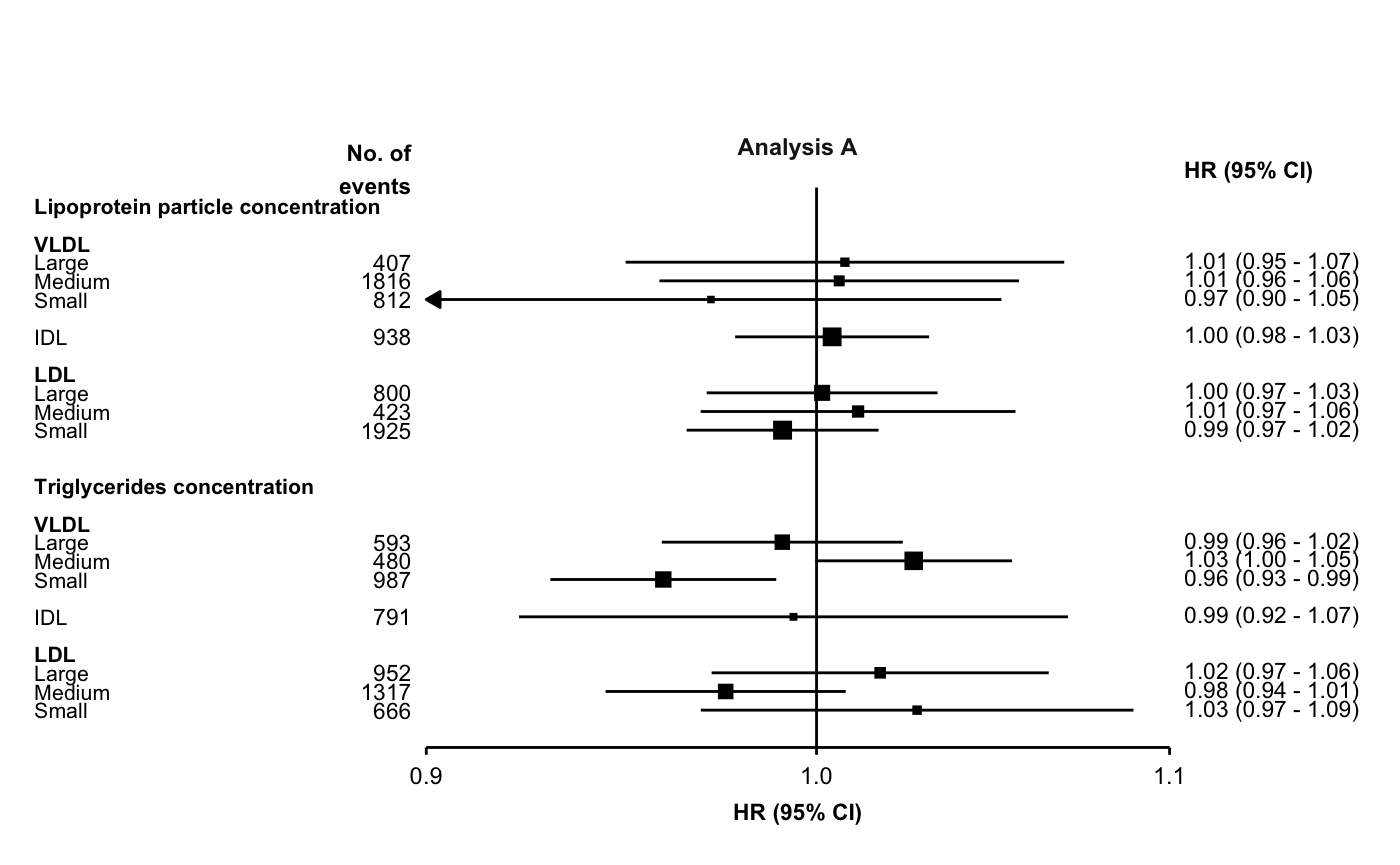
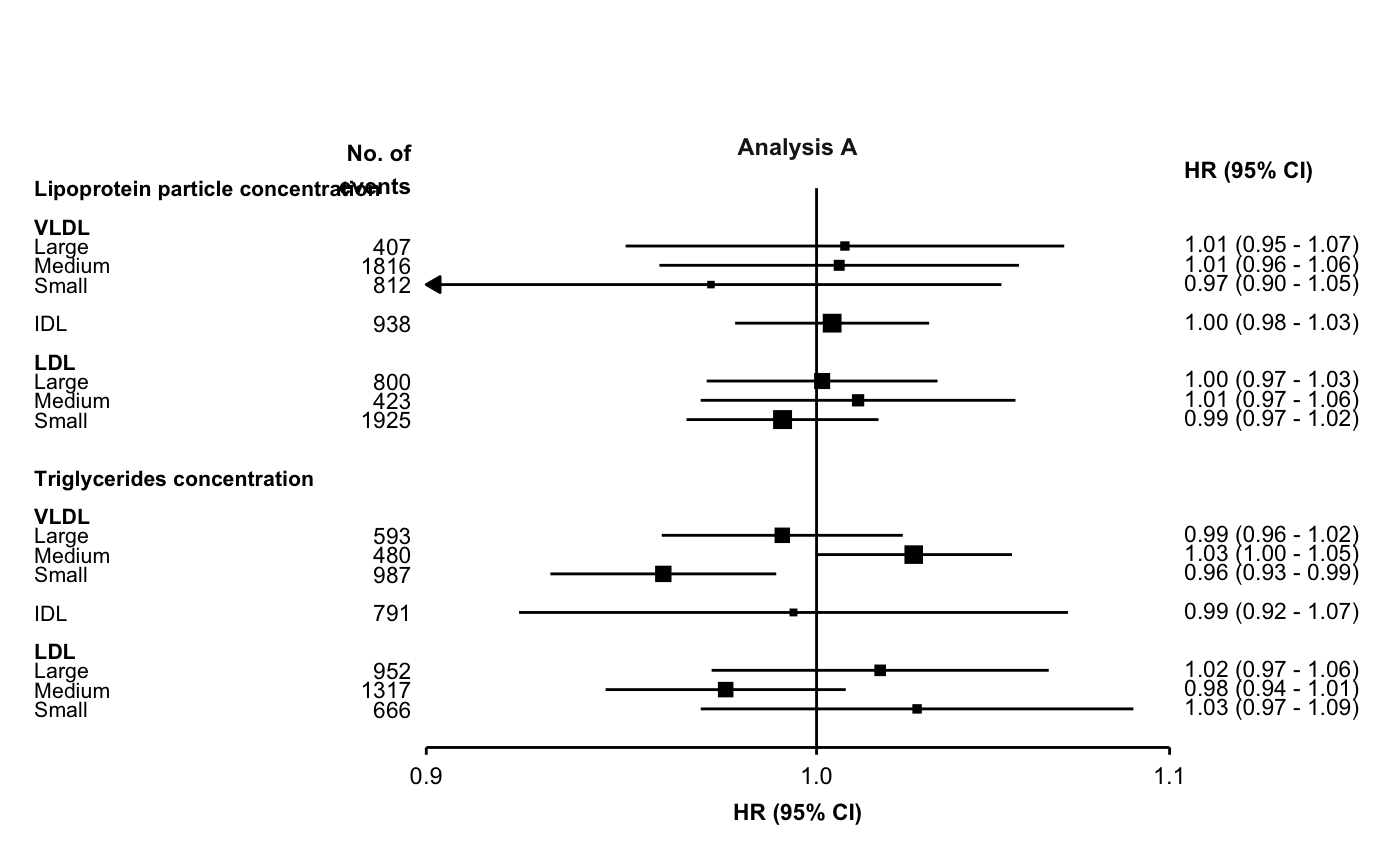
Built site for ckbplotr: 0.1.0.9000@7547133

diff --git a/index.html b/index.html
@@ -144,7 +144,7 @@
                         <span class="kw">ylims</span>        <span class="kw">=</span> <span class="fu"><a href="https://rdrr.io/r/base/c.html">c</a></span>(<span class="fl">0.5</span>, <span class="fl">3</span>),
                         <span class="kw">scalepoints</span>  <span class="kw">=</span> <span class="fl">TRUE</span>,
                         <span class="kw">title</span>        <span class="kw">=</span> <span class="kw">NULL</span>)</pre></div>
-<p><img src="reference/figures/README-unnamed-chunk-4-1.png" width="100%"></p>
+<p><img src="reference/figures/README-make_shape_plot%20example%201-1.png" width="100%"></p>
 <p>The <code>col.group</code> argument can be supplied to plot results for different groups (in shades of grey).</p>
 <div class="sourceCode" id="cb5"><pre class="r"><span class="no">plot</span> <span class="kw">&lt;-</span> <span class="fu"><a href="reference/make_shape_plot.html">make_shape_plot</a></span>(<span class="no">results</span>,
                         <span class="kw">col.x</span>        <span class="kw">=</span> <span class="st">"rf"</span>,
@@ -156,7 +156,7 @@
                         <span class="kw">ylims</span>        <span class="kw">=</span> <span class="fu"><a href="https://rdrr.io/r/base/c.html">c</a></span>(<span class="fl">0.5</span>, <span class="fl">3</span>),
                         <span class="kw">scalepoints</span>  <span class="kw">=</span> <span class="fl">TRUE</span>,
                         <span class="kw">title</span>        <span class="kw">=</span> <span class="kw">NULL</span>)</pre></div>
-<p><img src="reference/figures/README-unnamed-chunk-5-1.png" width="100%"></p>
+<p><img src="reference/figures/README-make_shape_plot%20example%202-1.png" width="100%"></p>
 </div>
 </div>
 <div id="the-plot_like_ckb-function" class="section level2">
@@ -177,27 +177,27 @@
 
 <span class="no">plot</span> <span class="kw">&lt;-</span> <span class="fu"><a href="https://ggplot2.tidyverse.org/reference/ggplot.html">ggplot</a></span>(<span class="kw">data</span> <span class="kw">=</span> <span class="no">mpg</span>, <span class="fu"><a href="https://ggplot2.tidyverse.org/reference/aes.html">aes</a></span>(<span class="kw">x</span> <span class="kw">=</span> <span class="no">displ</span>, <span class="kw">y</span> <span class="kw">=</span> <span class="no">hwy</span>)) + <span class="fu"><a href="https://ggplot2.tidyverse.org/reference/geom_point.html">geom_point</a></span>(<span class="kw">size</span> <span class="kw">=</span> <span class="fl">1</span>)
 <span class="no">plot</span></pre></div>
-<p><img src="reference/figures/README-unnamed-chunk-6-1.png" width="100%"></p>
+<p><img src="reference/figures/README-a%20plot-1.png" width="100%"></p>
 <p>Then apply the <code>plot_like_ckb</code> function to the plot.</p>
 <div class="sourceCode" id="cb7"><pre class="r"><span class="fu"><a href="reference/plot_like_ckb.html">plot_like_ckb</a></span>(<span class="kw">plot</span> <span class="kw">=</span> <span class="no">plot</span>, <span class="kw">xlims</span> <span class="kw">=</span> <span class="fu"><a href="https://rdrr.io/r/base/c.html">c</a></span>(<span class="fl">0</span>, <span class="fl">8</span>), <span class="kw">ylims</span> <span class="kw">=</span> <span class="fu"><a href="https://rdrr.io/r/base/c.html">c</a></span>(<span class="fl">10</span>, <span class="fl">50</span>))</pre></div>
-<p><img src="reference/figures/README-unnamed-chunk-7-1.png" width="100%"></p>
+<p><img src="reference/figures/README-plot_like_ckb%20example%201-1.png" width="100%"></p>
 <p>If you do not want a gap between the axes, set <code>gap = c(0, 0)</code>.</p>
 <div class="sourceCode" id="cb8"><pre class="r"><span class="fu"><a href="reference/plot_like_ckb.html">plot_like_ckb</a></span>(<span class="kw">plot</span> <span class="kw">=</span> <span class="no">plot</span>, <span class="kw">xlims</span> <span class="kw">=</span> <span class="fu"><a href="https://rdrr.io/r/base/c.html">c</a></span>(<span class="fl">0</span>, <span class="fl">8</span>), <span class="kw">ylims</span> <span class="kw">=</span> <span class="fu"><a href="https://rdrr.io/r/base/c.html">c</a></span>(<span class="fl">10</span>, <span class="fl">50</span>), <span class="kw">gap</span> <span class="kw">=</span> <span class="fu"><a href="https://rdrr.io/r/base/c.html">c</a></span>(<span class="fl">0</span>, <span class="fl">0</span>))</pre></div>
-<p><img src="reference/figures/README-unnamed-chunk-8-1.png" width="100%"></p>
+<p><img src="reference/figures/README-plot_like_ckb%20example%202-1.png" width="100%"></p>
 <p>If you wish to override some aspect of the theme applied by <code>plot_like_ckb</code>, then this can be done by adding a theme after the function.</p>
 <div class="sourceCode" id="cb9"><pre class="r"><span class="fu"><a href="reference/plot_like_ckb.html">plot_like_ckb</a></span>(<span class="kw">plot</span> <span class="kw">=</span> <span class="no">plot</span>, <span class="kw">xlims</span> <span class="kw">=</span> <span class="fu"><a href="https://rdrr.io/r/base/c.html">c</a></span>(<span class="fl">0</span>, <span class="fl">8</span>), <span class="kw">ylims</span> <span class="kw">=</span> <span class="fu"><a href="https://rdrr.io/r/base/c.html">c</a></span>(<span class="fl">10</span>, <span class="fl">50</span>)) +
   <span class="fu"><a href="https://ggplot2.tidyverse.org/reference/theme.html">theme</a></span>(<span class="kw">axis.title</span> <span class="kw">=</span> <span class="fu"><a href="https://ggplot2.tidyverse.org/reference/element.html">element_text</a></span>(<span class="kw">colour</span> <span class="kw">=</span> <span class="st">"red"</span>, <span class="kw">face</span> <span class="kw">=</span> <span class="st">"plain"</span>))</pre></div>
-<p><img src="reference/figures/README-unnamed-chunk-9-1.png" width="100%"></p>
+<p><img src="reference/figures/README-plot_like_ckb%20example%203-1.png" width="100%"></p>
 <p>If any data points you are plotting fall outside the axes, then they will still be drawn and may show up in places such as the axes, the legend, the plot title, or the plot margins. There is also no warning if data points fall outside the whole plot area.</p>
 <p>So it is best to check that your <code>xlim</code> and <code>ylim</code> values are suitable for your data before using the function.</p>
 <div class="sourceCode" id="cb10"><pre class="r"><span class="co"># The xlim and ylim ranges are too narrow</span>
 <span class="fu"><a href="reference/plot_like_ckb.html">plot_like_ckb</a></span>(<span class="kw">plot</span> <span class="kw">=</span> <span class="no">plot</span>, <span class="kw">xlims</span> <span class="kw">=</span> <span class="fu"><a href="https://rdrr.io/r/base/c.html">c</a></span>(<span class="fl">0</span>, <span class="fl">4</span>), <span class="kw">ylims</span> <span class="kw">=</span> <span class="fu"><a href="https://rdrr.io/r/base/c.html">c</a></span>(<span class="fl">20</span>, <span class="fl">50</span>))</pre></div>
-<p><img src="reference/figures/README-unnamed-chunk-10-1.png" width="100%"></p>
+<p><img src="reference/figures/README-plot_like_ckb%20example%204-1.png" width="100%"></p>
 <p>A bar chart.</p>
 <div class="sourceCode" id="cb11"><pre class="r"><span class="no">barplot</span> <span class="kw">&lt;-</span> <span class="fu"><a href="https://ggplot2.tidyverse.org/reference/ggplot.html">ggplot</a></span>(<span class="no">mpg</span>, <span class="fu"><a href="https://ggplot2.tidyverse.org/reference/aes.html">aes</a></span>(<span class="no">class</span>)) + <span class="fu"><a href="https://ggplot2.tidyverse.org/reference/geom_bar.html">geom_bar</a></span>()
 <span class="fu"><a href="reference/plot_like_ckb.html">plot_like_ckb</a></span>(<span class="no">barplot</span>, <span class="kw">xlims</span> <span class="kw">=</span> <span class="fu"><a href="https://rdrr.io/r/base/c.html">c</a></span>(<span class="fl">0.5</span>, <span class="fl">7.5</span>), <span class="kw">ylims</span> <span class="kw">=</span> <span class="fu"><a href="https://rdrr.io/r/base/c.html">c</a></span>(<span class="fl">0</span>, <span class="fl">70</span>), <span class="kw">gap</span> <span class="kw">=</span> <span class="fu"><a href="https://rdrr.io/r/base/c.html">c</a></span>(<span class="fl">0.025</span>, <span class="fl">0.005</span>), <span class="kw">ratio</span> <span class="kw">=</span> <span class="fl">0.5</span>) +
   <span class="fu"><a href="https://ggplot2.tidyverse.org/reference/theme.html">theme</a></span>(<span class="kw">axis.ticks.x</span> <span class="kw">=</span> <span class="fu"><a href="https://ggplot2.tidyverse.org/reference/element.html">element_blank</a></span>())</pre></div>
-<p><img src="reference/figures/README-unnamed-chunk-11-1.png" width="100%"></p>
+<p><img src="reference/figures/README-bar%20chart%20example-1.png" width="100%"></p>
 </div>
 </div>
 <div id="the-make_forest_plot-function" class="section level2">
@@ -262,7 +262,7 @@
                                <span class="kw">col.key</span>      <span class="kw">=</span> <span class="st">"variable"</span>)
 <span class="co">#&gt; Warning: Vectorized input to `element_text()` is not officially supported.</span>
 <span class="co">#&gt; Results may be unexpected or may change in future versions of ggplot2.</span></pre></div>
-<p><img src="reference/figures/README-unnamed-chunk-13-1.png" width="100%"></p>
+<p><img src="reference/figures/README-make_forest_plot%20example%201-1.png" width="100%"></p>
 <p>To use headings, create a data frame of headings and specify arguments <code>headings</code> and <code>rows</code>.</p>
 <div class="sourceCode" id="cb14"><pre class="sourceCode R"><code class="sourceCode r"><span id="cb14-1"><a href="#cb14-1"></a><span class="co">#&gt;                              heading1 heading2 heading3      variable</span></span>
 <span id="cb14-2"><a href="#cb14-2"></a><span class="co">#&gt; 1  Lipoprotein particle concentration     VLDL    Large  nmr_l_vldl_p</span></span>
@@ -303,11 +303,12 @@
                                <span class="kw">col.left.space</span>   <span class="kw">=</span> <span class="fu"><a href="https://rdrr.io/r/base/c.html">c</a></span>(<span class="fl">0.02</span>),
                                <span class="kw">col.left.heading</span> <span class="kw">=</span> <span class="fu"><a href="https://rdrr.io/r/base/c.html">c</a></span>(<span class="st">"No. of\nevents"</span>),
                                <span class="kw">col.right.space</span>  <span class="kw">=</span> <span class="fl">0.02</span>,
+                               <span class="kw">col.heading.space</span> <span class="kw">=</span> <span class="fl">1.5</span>,
                                <span class="kw">heading.space</span>    <span class="kw">=</span> <span class="fl">2</span>,
                                <span class="kw">plot.space</span>       <span class="kw">=</span> <span class="fl">8</span>)
 <span class="co">#&gt; Warning: Vectorized input to `element_text()` is not officially supported.</span>
 <span class="co">#&gt; Results may be unexpected or may change in future versions of ggplot2.</span></pre></div>
-<p><img src="reference/figures/README-unnamed-chunk-15-1.png" width="100%"></p>
+<p><img src="reference/figures/README-make_forest_plot%20example%202-1.png" width="100%"></p>
 </div>
 </div>
 <div id="make_jasper_forest_plot-function" class="section level2">

diff --git a/reference/make_forest_plot.html b/reference/make_forest_plot.html
@@ -146,6 +146,9 @@
   <span class='kw'>col.right.heading</span> <span class='kw'>=</span> <span class='st'>"HR (95% CI)"</span>,
   <span class='kw'>col.left.space</span> <span class='kw'>=</span> <span class='fl'>0</span>,
   <span class='kw'>col.right.space</span> <span class='kw'>=</span> <span class='fl'>0</span>,
+  <span class='kw'>col.left.hjust</span> <span class='kw'>=</span> <span class='fl'>1</span>,
+  <span class='kw'>col.right.hjust</span> <span class='kw'>=</span> <span class='fl'>0</span>,
+  <span class='kw'>col.heading.space</span> <span class='kw'>=</span> <span class='fl'>0</span>,
   <span class='kw'>estcolumn</span> <span class='kw'>=</span> <span class='fl'>TRUE</span>,
   <span class='kw'>col.pval</span> <span class='kw'>=</span> <span class='kw'>NULL</span>,
   <span class='kw'>ci.delim</span> <span class='kw'>=</span> <span class='st'>", "</span>,
@@ -247,6 +250,21 @@ and col.left columns. As a multiple of the length of the x-axis. (Default: 0)</p
       <th>col.right.space</th>
       <td><p>Size of the gap between the plot and column to the
 right of the plot. As a multiple of the length of the x-axis. (Default: 0)</p></td>
+    </tr>
+    <tr>
+      <th>col.left.hjust</th>
+      <td><p>A numeric vector. The horizontal justification of
+col.left columns. (Default: 1)</p></td>
+    </tr>
+    <tr>
+      <th>col.right.hjust</th>
+      <td><p>A numeric vector. The horizontal justification of
+col.right columns. (Default: 0)</p></td>
+    </tr>
+    <tr>
+      <th>col.heading.space</th>
+      <td><p>Position of the titles given by col.left.heading and
+col.right.heading. Increase to move them up. (Default: 0)</p></td>
     </tr>
     <tr>
       <th>estcolumn</th>
